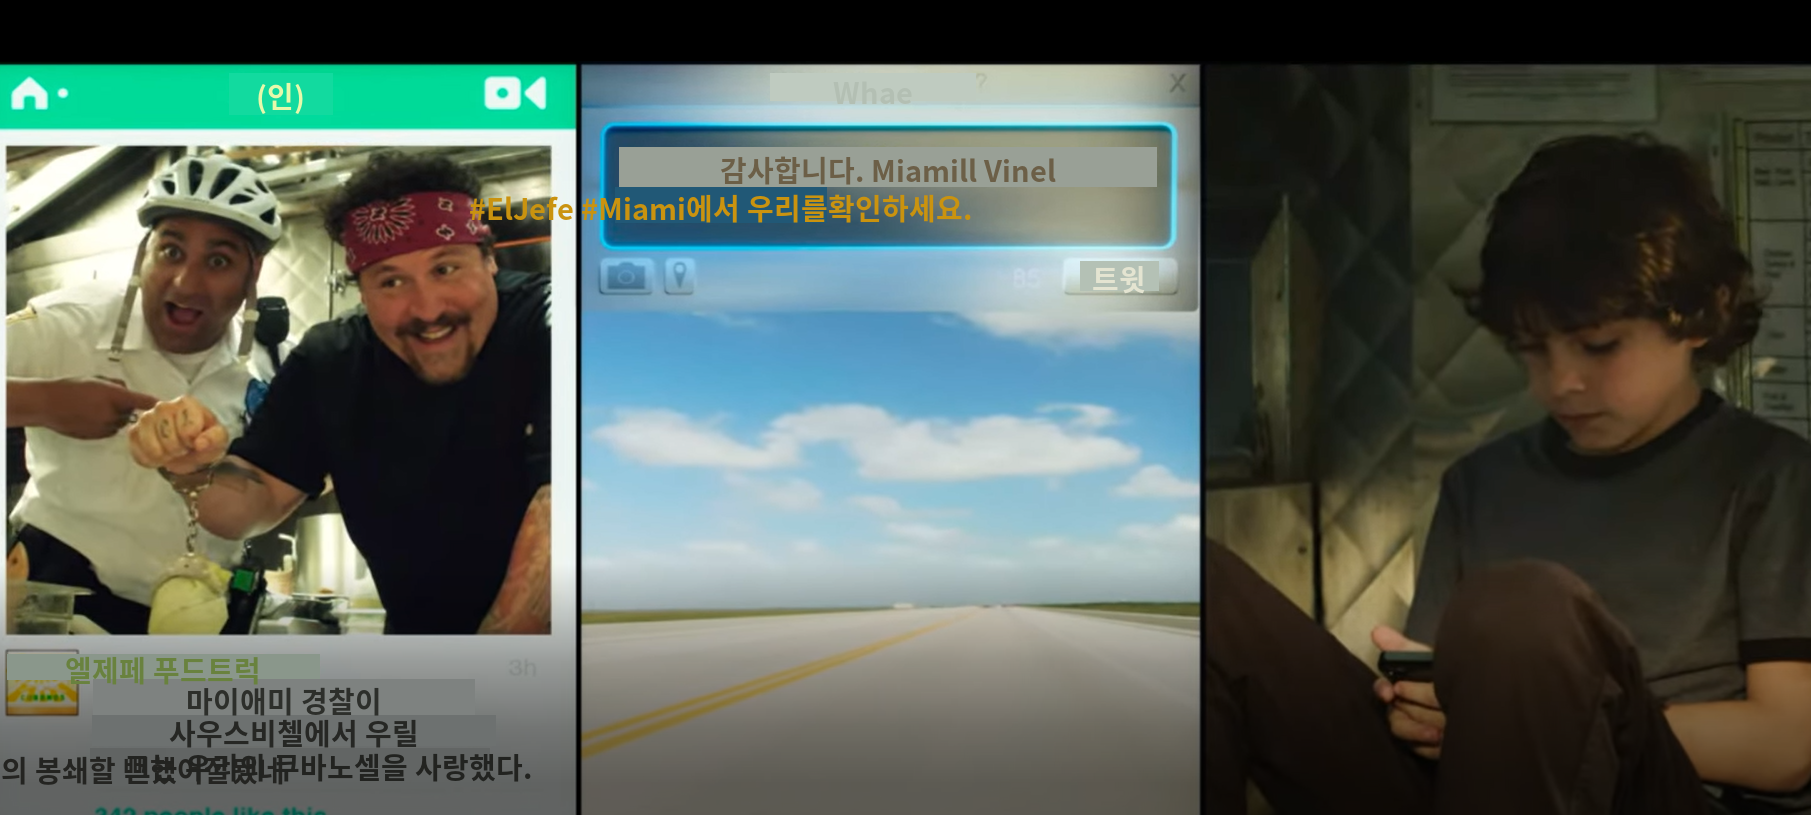
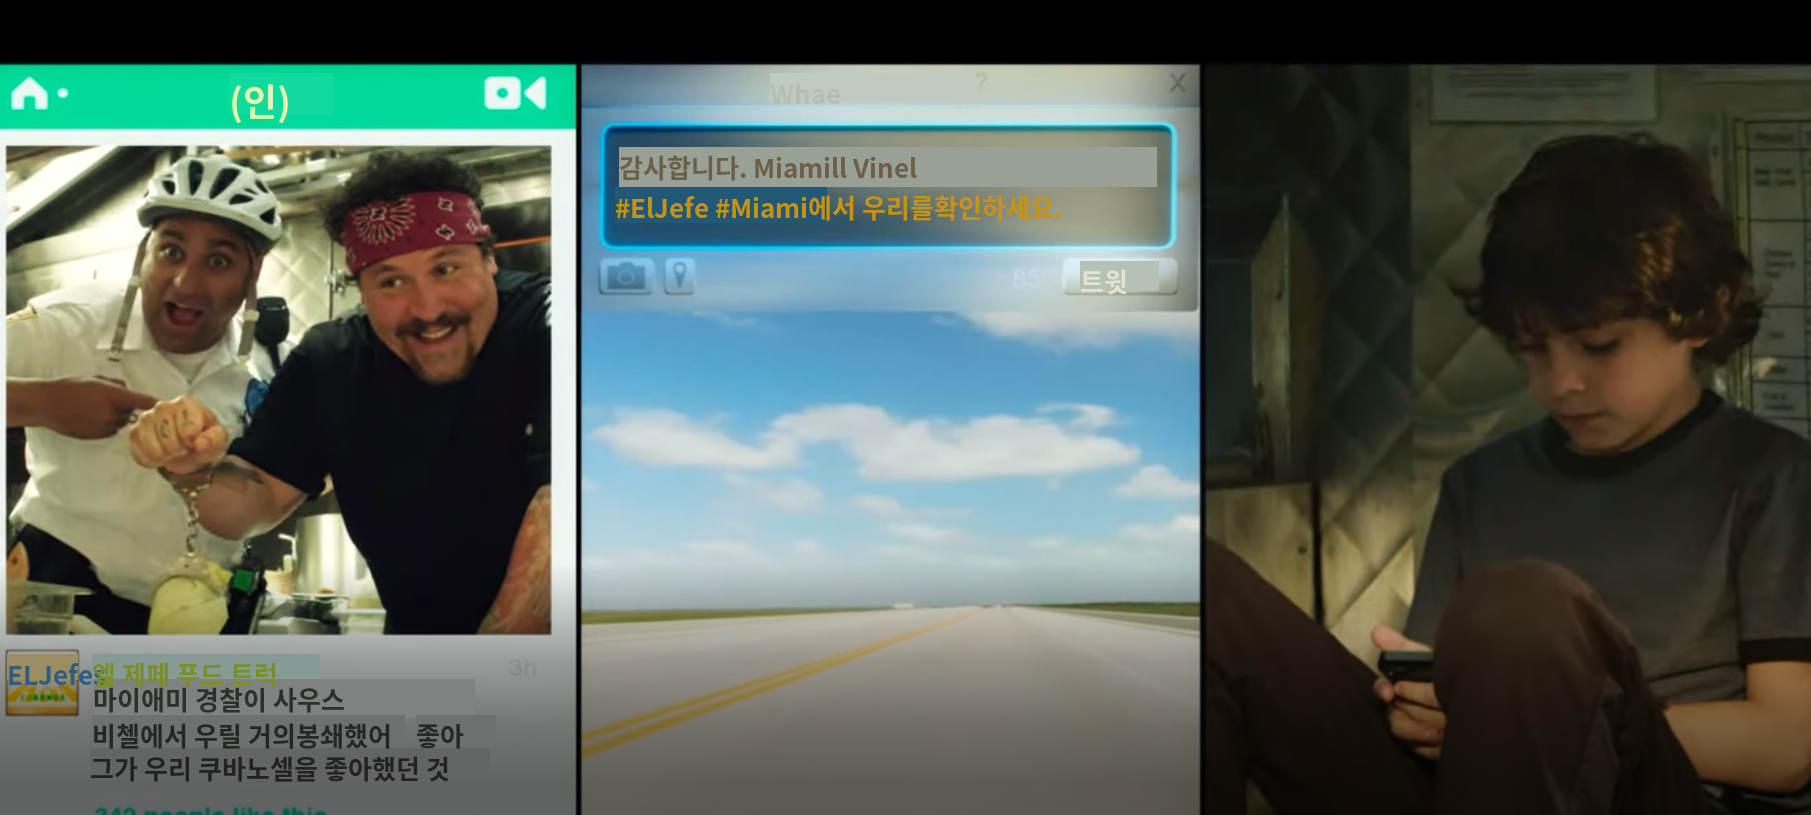
'finish'

diff --git a/TEST_JW/test.py b/TEST_JW/test.py
@@ -109,19 +109,14 @@ def argsort(seq):
     return sorted(range(len(seq)), key=seq.__getitem__)
 
 def array_box(bbox_list, text_list):
-    text_num = [x for x in range(len(text_list))]
-    try:
-        for x in text_num:
-            start = (bbox_list[x][0][1] + bbox_list[x][3][1]) //2
-            later = (bbox_list[x+1][0][1] + bbox_list[x+1][3][1]) //2
-            t = 10
+    # text_num = [x for x in ]
+    t = 10
+    for x in range(len(text_list)):
+        start = (bbox_list[x][1][1] + bbox_list[x][3][1]) //2
+        for y in range(len(text_list)):
+            later = (bbox_list[y][1][1] + bbox_list[y][3][1]) //2
             if start - t <= later <= start + t:
-                bbox_list[x+1][0][1] = bbox_list[x][0][1]
-                text_num.remove(x + 1)
-            else:
-                pass
-    except:
-        pass
+                bbox_list[y][0][1] = bbox_list[x][0][1]
     # 하나씩 집어 넣어서 sort 정렬.
     sort_idx = []
     for x in range(len(text_list)):
@@ -129,32 +124,32 @@ def array_box(bbox_list, text_list):
         sort_idx.append(t)
     # print(sort_idx)
     sorted_index = argsort(sort_idx)
-    return sorted_index
-
-def sum_box(box_list, ttext_list, sorted_index):
-    text_num = [x for x in range(len(ttext_list))]
-    bbox_list = []
-    text_list = []
+    box_list = []
+    ttext_list = []
     for x in sorted_index:
-        bbox_list.append(box_list[x])
-        text_list.append(ttext_list[x])
+        box_list.append(bbox_list[x])
+        ttext_list.append(text_list[x])
+    print(bbox_list[9: 14])
+    print(ttext_list[9: 14])
+    return box_list, ttext_list
 
+x = 0
+def sum_box(bbox_list, text_list,x):
     try:
-        for x in text_num:
-            start = bbox_list[x][1]
-            later = bbox_list[x+1][0]
-            t= 20
-            if start[0] - t <= later[0] <= start[0] + t and start[1] -t <= later[1] <= start[1] +t:
-                bbox_list[x] = [bbox_list[x][0],bbox_list[x+1][1],bbox_list[x+1][2],bbox_list[x][3]]
-                text_list[x] = text_list[x] + ' ' +text_list[x+1]
-                bbox_list.remove(bbox_list[x+1])
-                text_list.remove(text_list[x+1])
-                text_num.remove(x+1)
-            else:
-                pass
+        start = bbox_list[x][0]
+        later = bbox_list[x+1][0]
+        t = 10
+        if start[1] == later[1] and bbox_list[x][1][0] -t <= later[0] <= bbox_list[x][1][0] +t:
+            bbox_list[x] = [bbox_list[x][0], bbox_list[x + 1][1], bbox_list[x + 1][2], bbox_list[x][3]]
+            text_list[x] = text_list[x] + ' ' + text_list[x + 1]
+            bbox_list.remove(bbox_list[x + 1])
+            text_list.remove(text_list[x + 1])
+            return sum_box(bbox_list, text_list, x)
+        else:
+            x += 1
+            return sum_box(bbox_list,text_list, x)
     except:
-        pass
-    return np.array(bbox_list), text_list
+        return np.array(bbox_list), text_list
 
 x = 1
 z = 0
@@ -192,6 +187,7 @@ def jaegi(bbox_list, text_list, x, z):
 
         x += 1
         # print('x :', x)
+        print(y)
         return jaegi(bbox_list, text_list, x, z)
     else:
         x += 1
@@ -469,16 +465,22 @@ def change_bg_color(img):
 # Press the green button in the gutter to run the script.
 if __name__ == '__main__':
     bbox_list, text_list = easy_ocr_result(img)
-    sorted_index = array_box(bbox_list, text_list)
+    bbox_list, text_list = array_box(bbox_list, text_list)
+    print(text_list)
     print(' len - bbox_list : ', len(bbox_list))
-    bbox_list, text_list = sum_box(bbox_list, text_list, sorted_index)
-    print(' len - bbox_list : ', len(bbox_list))
+    print(' len - text_list: ', len(text_list))
+    bbox_list, text_list = sum_box(bbox_list, text_list, x)
+
+    print('change len - bbox_list : ', len(bbox_list))
+    print(' len - text_list: ', len(text_list))
+    print(text_list)
     text_list, change_start_index, len_index = jaegi(bbox_list, text_list, x, z)
+    print(change_start_index, len_index)
     tranlated_texts: List[str] = translate_texts(texts=text_list, type='naver')
-    # print(f'Tranlated_texts : {tranlated_texts}')
+    print(f'Tranlated_texts : {tranlated_texts}')
     tranlated_texts = split_text(tranlated_texts, change_start_index, len_index)
     print(tranlated_texts)
-    # print(tranlated_texts)
+    print(tranlated_texts)
 
     color_list = []
     # reverse_sorted_index = []
@@ -499,8 +501,8 @@ if __name__ == '__main__':
         #
         # mask = mask_image(img_cut)
         # masked_img = cv2.inpaint(img_cut, mask, 3, cv2.INPAINT_TELEA)
-        img = change_original(img,img_cut, bbox)
-
+        # img = change_original(img,img_cut, bbox)
+    #
     save_inpainting_images()
 
     rewrite(tranlated_texts,bbox_list,color_list)
